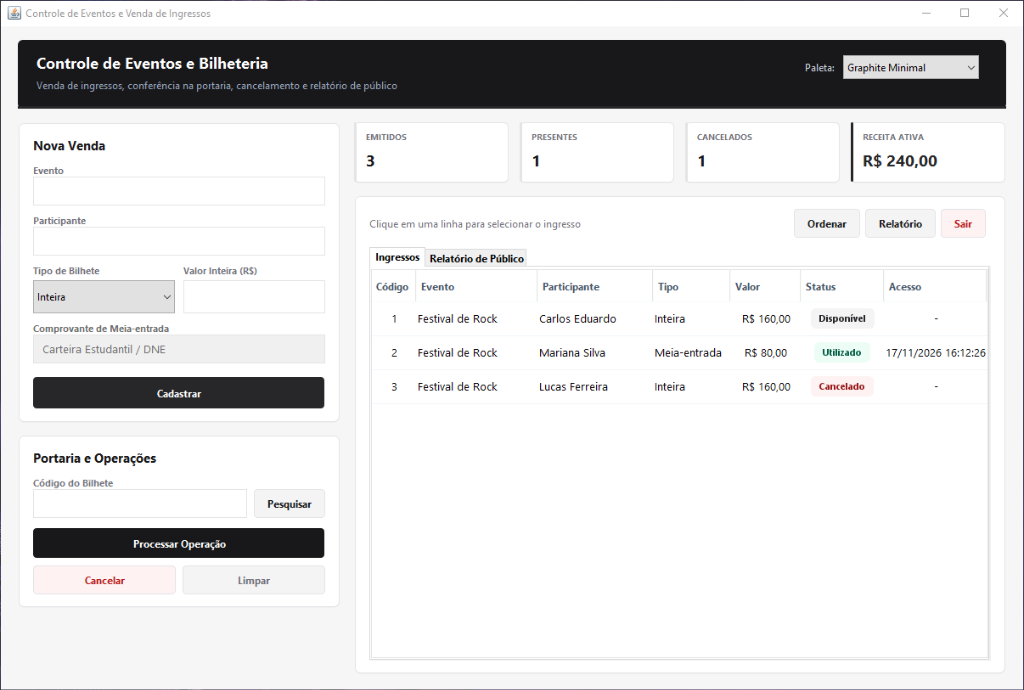
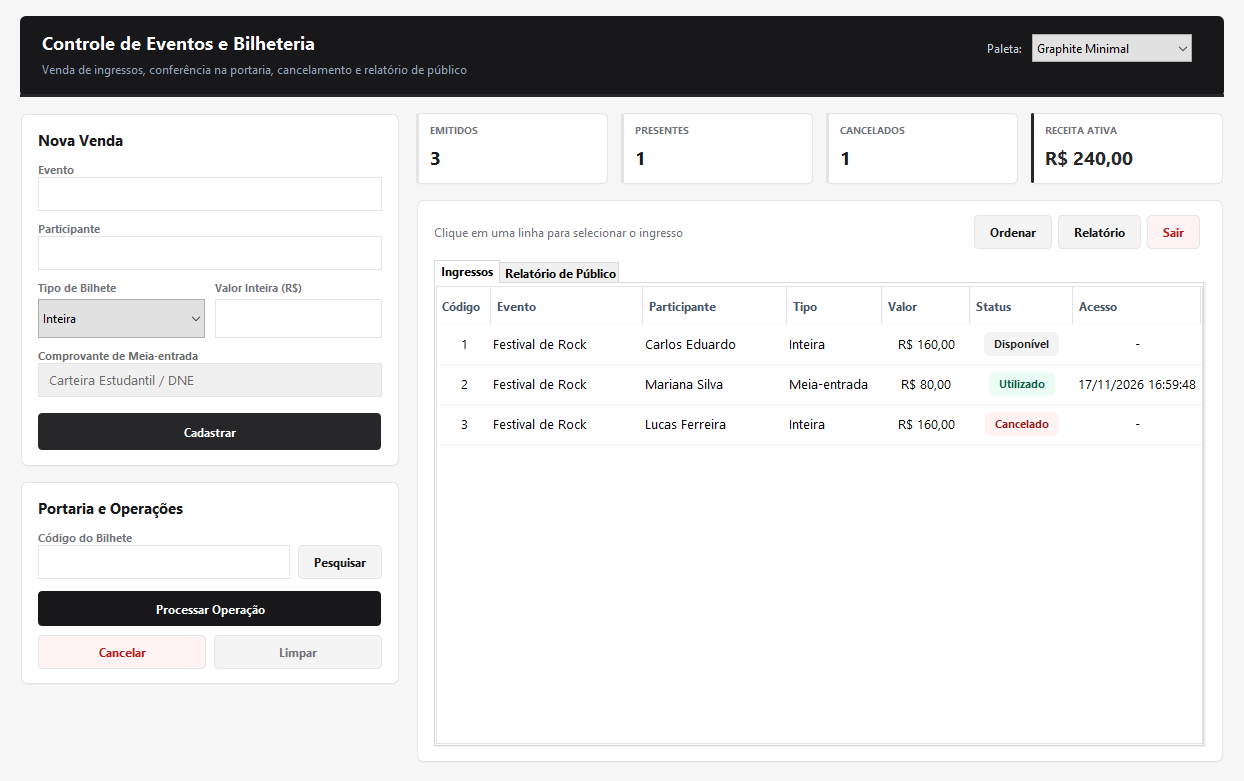
fix: remover dados iniciais ficticios e atualizar capturas em PNG nativo

diff --git a/src/br/com/eventos/view/TelaEventos.java b/src/br/com/eventos/view/TelaEventos.java
@@ -116,7 +116,6 @@ public class TelaEventos extends JFrame implements ActionListener, WindowListene
         super("Controle de Eventos e Venda de Ingressos");
         configurarJanela();
         construirInterface();
-        inicializarDadosIniciais();
         atualizarInterface();
     }
 
@@ -586,22 +585,6 @@ public class TelaEventos extends JFrame implements ActionListener, WindowListene
             }
         });
         return campo;
-    }
-
-    private void inicializarDadosIniciais() {
-        Ingresso i1 = new IngressoInteira(contadorSequencial++, "Festival de Rock", "Carlos Eduardo", 160.00);
-        IngressoMeia i2 = new IngressoMeia(contadorSequencial++, "Festival de Rock", "Mariana Silva", 80.00, "DNE #4821");
-        Ingresso i3 = new IngressoInteira(contadorSequencial++, "Festival de Rock", "Lucas Ferreira", 160.00);
-
-        try {
-            i2.validarAcessoCatraca();
-            i3.cancelar();
-        } catch (IngressoInvalidoException ignored) {
-        }
-
-        listaIngressos.add(i1);
-        listaIngressos.add(i2);
-        listaIngressos.add(i3);
     }
 
     private void cadastrarIngresso() {

diff --git a/README.md b/README.md
@@ -63,7 +63,7 @@ A tela principal foi organizada em duas colunas para separar entrada de dados e 
 
 ### Aba Relatório de Público (`JTextArea`)
 
-![Relatório de Público e Bilheteria](docs/tela-relatorio.jpg)
+![Relatório de Público e Bilheteria](docs/tela-relatorio.png)
 
 ---
 
@@ -75,7 +75,7 @@ A tela principal foi organizada em duas colunas para separar entrada de dados e 
 Controle-eventos-ingressos/
 ├── docs/
 │   ├── tela-principal.png
-│   └── tela-relatorio.jpg
+│   └── tela-relatorio.png
 ├── src/
 │   └── br/
 │       └── com/
@@ -255,18 +255,19 @@ java -cp bin br.com.eventos.view.Principal
 
 ## 6. Roteiro de Testes Manuais
 
-A aplicação inicia com **3 ingressos pré-cadastrados** (`#1 Disponível`, `#2 Utilizado` e `#3 Cancelado`) para agilizar a conferência das funcionalidades:
+A aplicação inicia com a lista em memória vazia (`0` registros). Para validar todas as regras de negócio durante a correção, siga a sequência abaixo:
 
 | Cenário | Ação na Interface | Resultado Esperado |
 | :--- | :--- | :--- |
-| **Venda Inteira** | Preencher Evento, Participante, tipo `Inteira`, Valor `120,00` e clicar em `Cadastrar` | Bilhete `#4` criado com valor `R$ 120,00`, status `Disponível` e totalizadores atualizados. |
-| **Venda Meia-entrada** | Selecionar `Meia-entrada (50%)`, informar Valor `120,00` e comprovante, clicar em `Cadastrar` | Campo de comprovante habilita automaticamente; bilhete `#5` criado com `R$ 60,00` via `Validavel.calcularValorMeia()`. |
+| **Venda Inteira** | Preencher Evento, Participante, tipo `Inteira`, Valor `120,00` e clicar em `Cadastrar` | Bilhete `#1` criado com valor `R$ 120,00`, status `Disponível` e totalizadores atualizados. |
+| **Venda Meia-entrada** | Selecionar `Meia-entrada (50%)`, informar Valor `120,00` e comprovante, clicar em `Cadastrar` | Campo de comprovante habilita automaticamente; bilhete `#2` criado com `R$ 60,00` via `Validavel.calcularValorMeia()`. |
 | **Erro de formato numérico** | Informar `abc` em `Valor Inteira` ou no `Código do Bilhete` e acionar a operação | `NumberFormatException` capturada e mensagem exibida via `JOptionPane.showMessageDialog()`. |
 | **Pesquisa** | Digitar `2` no campo `Código do Bilhete` (ou um nome em `Participante`) e clicar em `Pesquisar` | Campos preenchidos com os dados do bilhete localizado e linha selecionada na tabela. |
 | **Validação na catraca** | Selecionar o bilhete `#1` (`Disponível`) e clicar em `Processar Operação` | Diálogo exibe a orientação polimórfica da portaria; ao confirmar, status muda para `Utilizado` com data/hora registrada. |
-| **Exceção — Acesso duplicado** | Selecionar o bilhete `#2` (`Utilizado`) e clicar em `Processar Operação` | Dispara `IngressoInvalidoException` com aviso via `JOptionPane` informando o horário do uso anterior. |
-| **Exceção — Ingresso cancelado** | Selecionar o bilhete `#3` (`Cancelado`) e clicar em `Processar Operação` | Dispara `IngressoInvalidoException` negando a liberação na catraca. |
-| **Exceção — Cancelar bilhete usado** | Selecionar o bilhete `#2` (`Utilizado`) e clicar em `Cancelar` | Dispara `IngressoInvalidoException` impedindo o cancelamento de bilhete já utilizado. |
+| **Exceção — Acesso duplicado** | Selecionar o bilhete `#1` (já `Utilizado`) e clicar em `Processar Operação` novamente | Dispara `IngressoInvalidoException` com aviso via `JOptionPane` informando o horário do uso anterior. |
+| **Exceção — Cancelar bilhete usado** | Selecionar o bilhete `#1` (`Utilizado`) e clicar em `Cancelar` | Dispara `IngressoInvalidoException` impedindo o cancelamento de bilhete já utilizado. |
+| **Cancelamento válido** | Selecionar o bilhete `#2` (`Disponível`) e clicar em `Cancelar` | Status alterado para `Cancelado` e receita ativa recalculada. |
+| **Exceção — Ingresso cancelado** | Selecionar o bilhete `#2` (`Cancelado`) e clicar em `Processar Operação` | Dispara `IngressoInvalidoException` negando a liberação na catraca. |
 | **Ordenação natural** | Clicar em `Ordenar` | Executa `Collections.sort(listaIngressos)` ordenando pelo código sequencial via `Comparable<Ingresso>`. |
 | **Relatório de público** | Clicar em `Relatório` (ou na aba `Relatório de Público`) | Exibe o consolidado de emitidos, válidos, cancelados, público presente, taxa de comparecimento, receita e listagem completa no `JTextArea`. |
 | **Fechamento da janela** | Clicar em `Sair` ou no botão `X` da janela | `WindowListener` intercepta o fechamento e solicita confirmação antes de encerrar a sessão em memória. |
